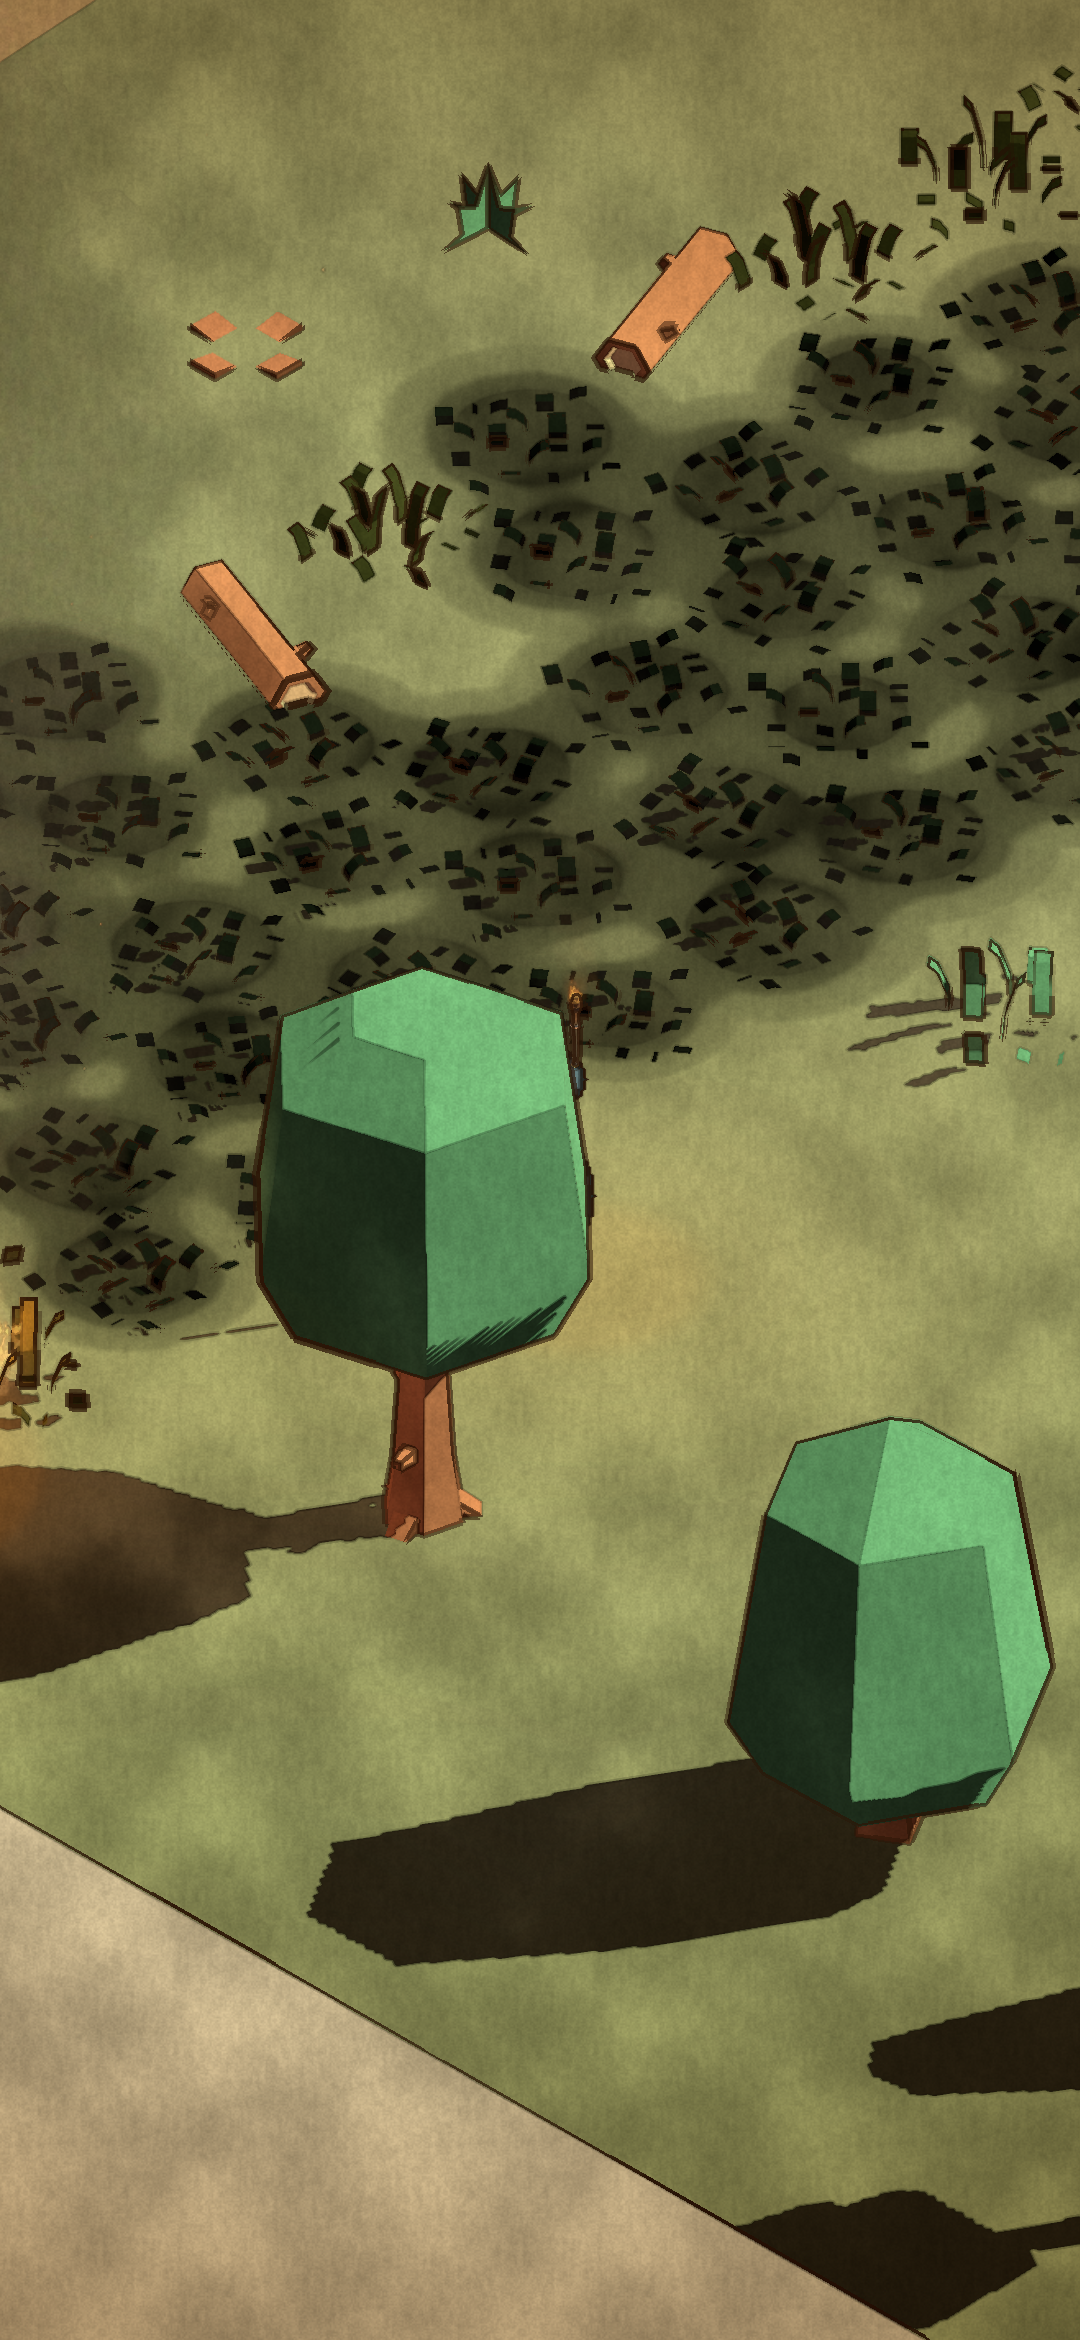
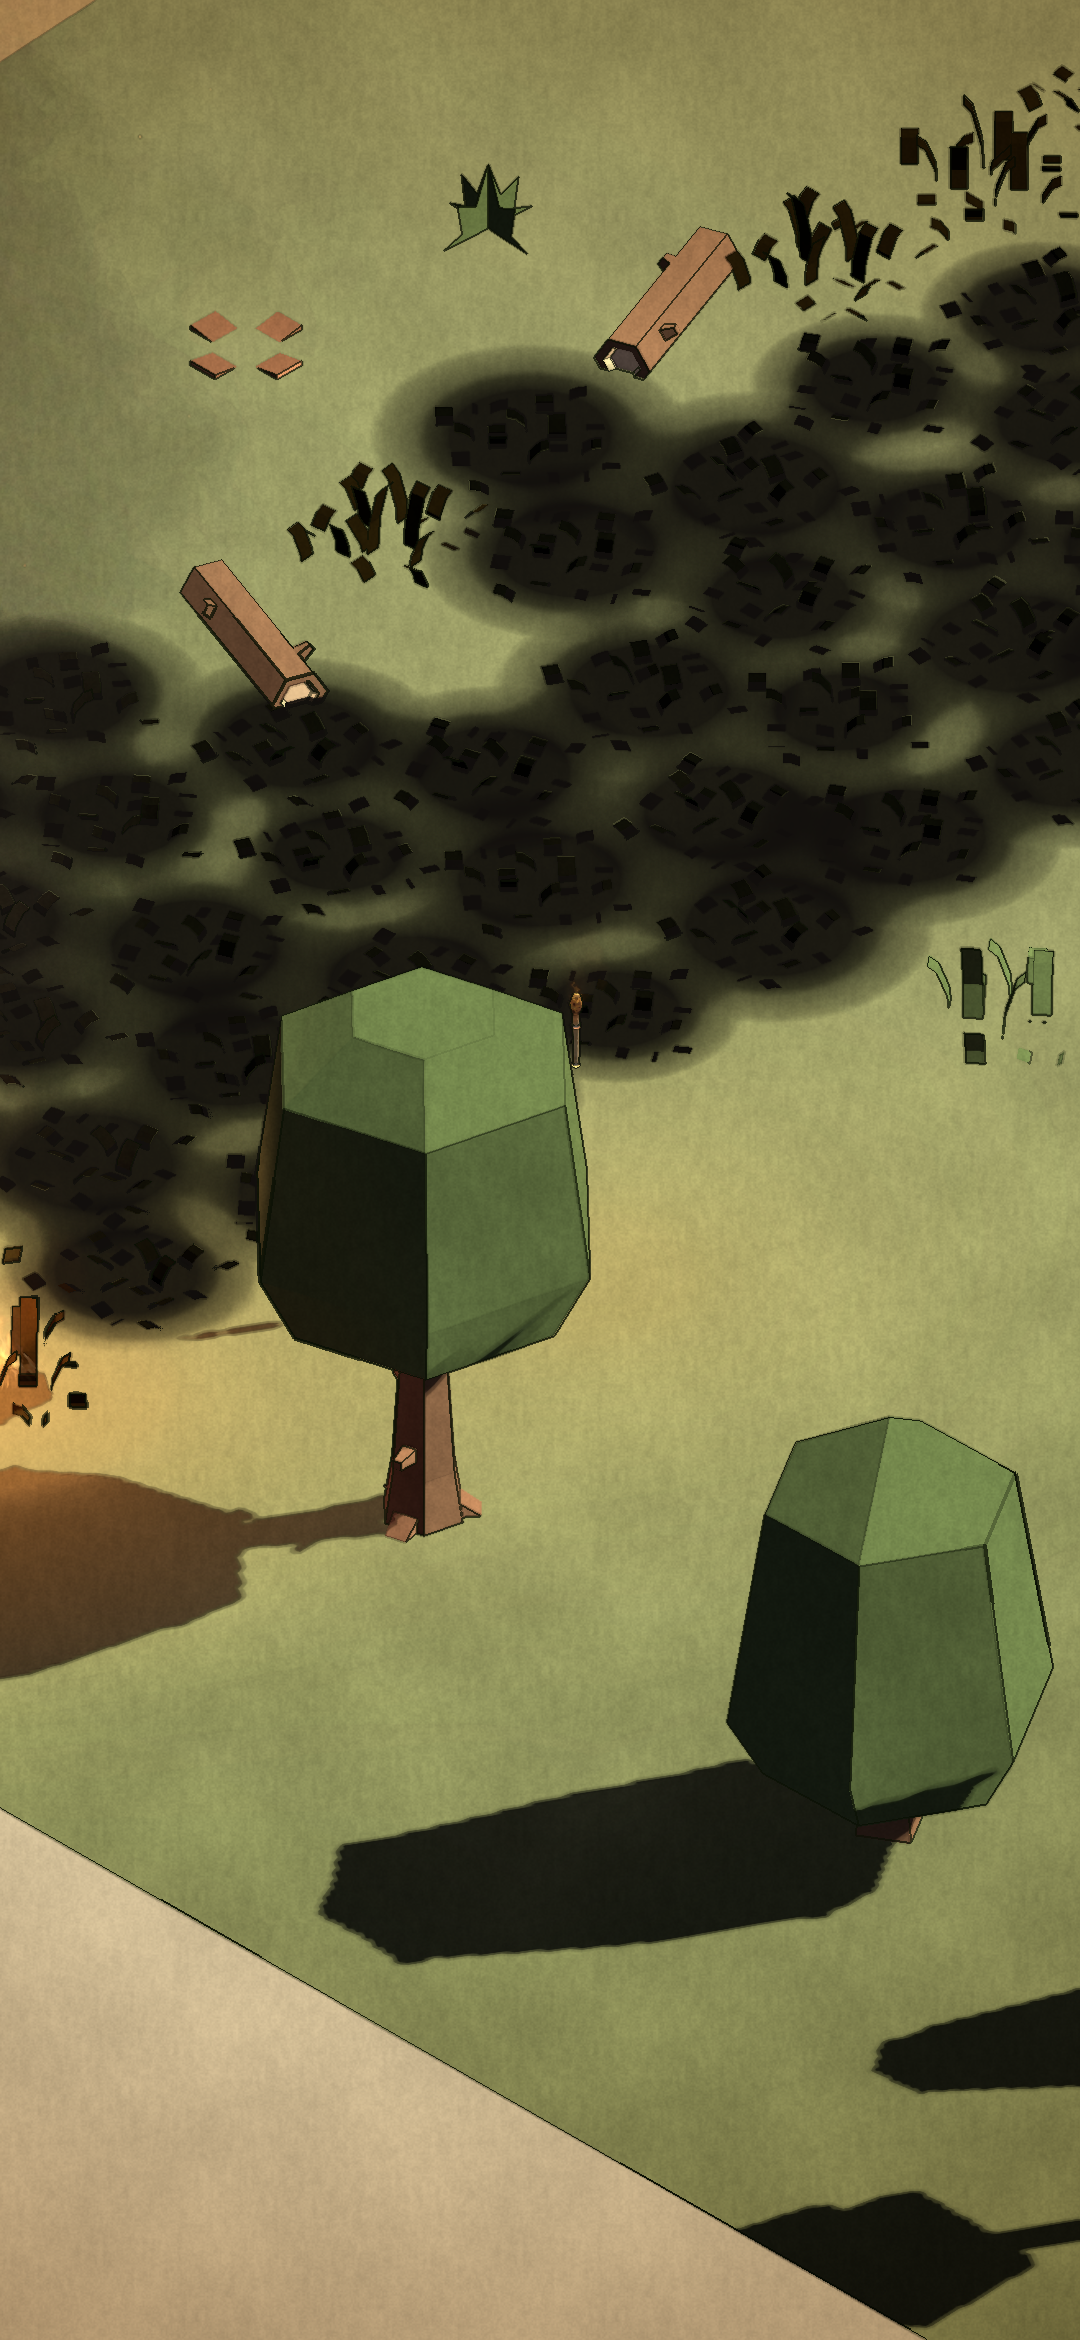
D-16: дождь виден (отсечение частиц вдали от начала координат), штрихи тушью, кадры; PlayMode D16 11/11; галочка

diff --git a/ZeldaDaughter/Assets/Tests/PlayMode/D16NatureTests.cs b/ZeldaDaughter/Assets/Tests/PlayMode/D16NatureTests.cs
@@ -291,11 +291,12 @@ namespace ZeldaDaughter.Tests
                 .Where(m => m.enabled && m.GetType().Namespace != null && m.GetType().Namespace.StartsWith("ZeldaDaughter") && m != _s).ToList();
             foreach (var m in all) m.enabled = false;
             for (int i = 0; i < 10; i++) yield return null;
-            long without = 0, with = 0;
-            yield return Allocated(120, t => without = t);
+            // The editor's own allocations come and go (a long suite, the bridge): the quieter of three windows each is the steady state.
+            long without = long.MaxValue, with = long.MaxValue, got = 0;
+            for (int k = 0; k < 3; k++) { yield return Allocated(120, t => got = t); without = Math.Min(without, got); }
             foreach (var m in mine) m.enabled = true;
             for (int i = 0; i < 10; i++) yield return null;
-            yield return Allocated(120, t => with = t);
+            for (int k = 0; k < 3; k++) { yield return Allocated(120, t => got = t); with = Math.Min(with, got); }
             foreach (var m in all) m.enabled = true;
             ZdLog.Info("Test", $"D-16 idle GC over 120 frames: session only {without} B, with the elements {with} B");
             Assert.LessOrEqual(with - without, 512, "NatureFx + HeroTorchLight in idle frames");
@@ -342,6 +343,11 @@ namespace ZeldaDaughter.Tests
             yield return StandAt(-131f, 12f);
             _s.State.Nature.Weather.StartRain(300f);
             yield return new WaitForSeconds(9f);
+            var rr = _fx.GetComponentInChildren<ParticleSystemRenderer>(true);
+            var rps = rr.GetComponent<ParticleSystem>();
+            ZdLog.Info("Test", $"D-16 rain probe: shader={(rr.sharedMaterial != null ? rr.sharedMaterial.shader.name : "null")} count={rps.particleCount} visible={rr.isVisible} bounds={rr.bounds} pos={rr.transform.position} hero={_hero.transform.position} mode={rr.renderMode} queue={rr.sharedMaterial.renderQueue}");
+            string shaderName = rr.sharedMaterial != null ? rr.sharedMaterial.shader.name : "null";
+            File.WriteAllText(Path.Combine(Application.temporaryCachePath, "rain-probe.txt"), $"shader={shaderName} count={rps.particleCount} visible={rr.isVisible} bounds={rr.bounds} pos={rr.transform.position} hero={_hero.transform.position} mode={rr.renderMode} queue={rr.sharedMaterial.renderQueue} rate={rps.emission.rateOverTime.constant} playing={rps.isPlaying} rainLevel={_fx.RainLevel}");
             yield return Frame("D-16-rain.png", 9f);
         }
 

diff --git a/ZeldaDaughter/Assets/Scripts/Runtime/World/NatureFx.cs b/ZeldaDaughter/Assets/Scripts/Runtime/World/NatureFx.cs
@@ -259,15 +259,16 @@ namespace ZeldaDaughter.World
             main.playOnAwake = false;
             main.loop = true;
             main.simulationSpace = ParticleSystemSimulationSpace.World;
+            main.cullingMode = ParticleSystemCullingMode.AlwaysSimulate; // far from the origin the default culling pauses it for good (its bounds stay at 0,0,0)
             main.startLifetime = 0.55f;
             main.startSpeed = 0f;
-            main.startSize = 0.11f; // thick: the watercolour pass (after transparents) eats thin lines
-            main.startColor = new Color(0.16f, 0.22f, 0.32f, 0.8f); // ink, not water
+            main.startSize = 0.055f; // thick: the watercolour pass (after transparents) eats thin lines
+            main.startColor = new Color(0.20f, 0.26f, 0.36f, 0.65f); // ink, not water
             main.maxParticles = 2500;
             var vel = ps.velocityOverLifetime;
             vel.enabled = true;
             vel.space = ParticleSystemSimulationSpace.World;
-            vel.x = new ParticleSystem.MinMaxCurve(-7f);
+            vel.x = new ParticleSystem.MinMaxCurve(-5f);
             vel.y = new ParticleSystem.MinMaxCurve(-22f);
             vel.z = new ParticleSystem.MinMaxCurve(0f);
             var shape = ps.shape;
@@ -277,7 +278,7 @@ namespace ZeldaDaughter.World
             em.rateOverTime = 0f;
             var r = root.GetComponent<ParticleSystemRenderer>();
             r.renderMode = ParticleSystemRenderMode.Stretch;
-            r.lengthScale = 13f;
+            r.lengthScale = 12f;
             r.velocityScale = 0f;
             r.sharedMaterial = _rainMat;
             r.shadowCastingMode = UnityEngine.Rendering.ShadowCastingMode.Off;
@@ -414,7 +415,7 @@ namespace ZeldaDaughter.World
             var em = _rain.emission;
             if (_rainLevel > 0.001f)
             {
-                em.rateOverTime = 600f * _rainLevel;
+                em.rateOverTime = 700f * _rainLevel;
                 if (!_rain.isPlaying) _rain.Play();
             }
             else if (_rain.isPlaying) _rain.Stop(true, ParticleSystemStopBehavior.StopEmitting);
@@ -648,6 +649,7 @@ namespace ZeldaDaughter.World
             var main = ps.main;
             main.playOnAwake = false;
             main.loop = true;
+            main.cullingMode = ParticleSystemCullingMode.AlwaysSimulate;
             return ps;
         }
 

diff --git a/plan/stage-D-demo.md b/plan/stage-D-demo.md
@@ -30,7 +30,7 @@
 - [x] D-13 Бой в сцене: кабан и волк, замах, удар, уворот, туша, разделка
 - [x] D-14 Радиальное меню, инвентарь, крафт перетаскиванием, еда, размещение в мире
 - [x] D-15 Костёр, факел, кузница, сон в таверне, торговля, карта и блокнот — экраны (PlayMode 85/85, 12 тестов D15ScreensTests, кадры docs/demo/frames/D-15-*; кадры сняты без пост-эффекта поверх UI не удалось: контур мира виден поверх окон — особенность съёмки через камеру, в игре Overlay чист)
-- [ ] D-16 Стихии и ночь в сцене: огонь по траве, дождь, хищники ночью, свет костра и факела
+- [x] D-16 Стихии и ночь в сцене: огонь по траве, дождь, хищники ночью, свет костра и факела
 - [ ] D-17 Звук: среда, шаги по поверхностям, город, бой, бард в таверне
 - [x] D-18 Онбординг и реплики — вид, без HUD
 
